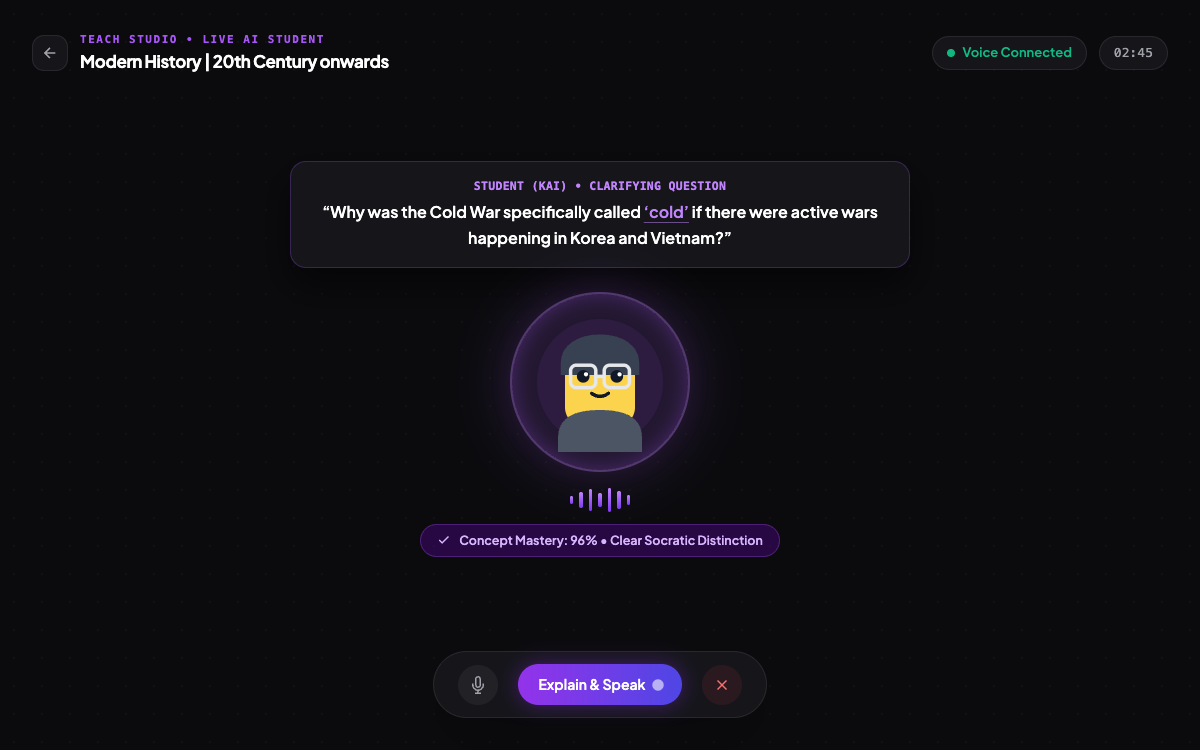
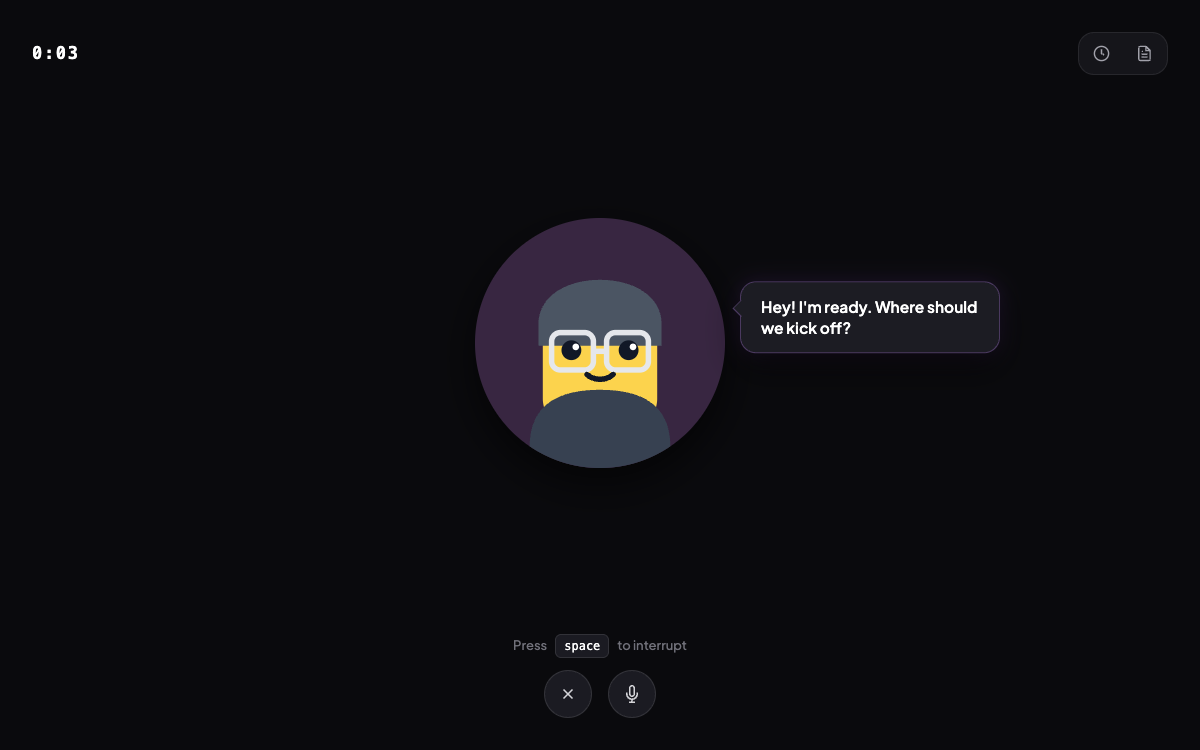
Update TeachRoom feature mockup to exact live UI

diff --git a/assets/mockups/teachroom.html b/assets/mockups/teachroom.html
@@ -6,107 +6,116 @@
 <link href="https://fonts.googleapis.com/css2?family=Plus+Jakarta+Sans:wght@400;500;600;700;800&family=JetBrains+Mono:wght@500;600&display=swap" rel="stylesheet">
 <script src="https://cdn.tailwindcss.com"></script>
 <style>
-body { margin:0; background:#0B0B0E; color:#EDEDED; font-family:'Plus Jakarta Sans',sans-serif; overflow:hidden; }
-.avatar-ring {
-  box-shadow: 0 0 50px rgba(168, 85, 247, 0.25), inset 0 0 20px rgba(168, 85, 247, 0.3);
+body { margin:0; background:#0A0A0D; color:#EDEDED; font-family:'Plus Jakarta Sans',sans-serif; overflow:hidden; }
+.avatar-circle {
+  width: 250px;
+  height: 250px;
+  border-radius: 50%;
+  background: #382641;
+  box-shadow: 0 16px 40px rgba(0,0,0,0.6);
+  position: relative;
+  overflow: hidden;
 }
-.glass {
-  background: rgba(22, 22, 28, 0.85);
-  backdrop-filter: blur(20px);
-  border: 1px solid rgba(255, 255, 255, 0.08);
+.speech-bubble {
+  position: absolute;
+  left: calc(50% + 140px);
+  top: 50%;
+  transform: translateY(-85%);
+  background: #1c1c23;
+  border: 1px solid rgba(192, 132, 252, 0.28);
+  border-radius: 16px;
+  padding: 14px 20px;
+  max-width: 260px;
+  box-shadow: 0 12px 32px rgba(0,0,0,0.6), 0 0 20px rgba(168,85,247,0.15);
 }
-.voice-wave span {
-  display: inline-block;
-  width: 3.5px;
-  background: linear-gradient(180deg, #c084fc, #7c3aed);
-  border-radius: 99px;
+.speech-bubble::before {
+  content: '';
+  position: absolute;
+  left: -6px;
+  top: 20px;
+  width: 12px;
+  height: 12px;
+  background: #1c1c23;
+  border-left: 1px solid rgba(192, 132, 252, 0.28);
+  border-bottom: 1px solid rgba(192, 132, 252, 0.28);
+  transform: rotate(45deg);
+}
+.icon-btn {
+  background: #15151A;
+  border: 1px solid rgba(255,255,255,0.08);
+  color: #D4D4D8;
 }
 </style>
 </head>
 <body class="w-[1200px] h-[750px] relative flex flex-col justify-between p-8 select-none">
-  <!-- Grid background -->
-  <div class="absolute inset-0 pointer-events-none opacity-20" style="background-image: radial-gradient(rgba(255,255,255,0.15) 1px, transparent 1px); background-size: 28px 28px;"></div>
-  
   <!-- Top Bar -->
-  <div class="relative z-10 flex items-center justify-between">
-    <div class="flex items-center gap-3">
-      <div class="w-9 h-9 rounded-xl glass flex items-center justify-center text-[#A1A1AA]">
-        <svg width="18" height="18" viewBox="0 0 24 24" fill="none" stroke="currentColor" stroke-width="2"><path d="M19 12H5M12 19l-7-7 7-7"/></svg>
-      </div>
-      <div>
-        <div class="text-[11px] font-bold tracking-[0.14em] text-[#a855f7] uppercase font-mono">Teach Studio • Live AI Student</div>
-        <div class="text-[17px] font-bold text-white tracking-tight">Modern History | 20th Century onwards</div>
-      </div>
+  <div class="flex items-center justify-between">
+    <div class="text-[17px] font-mono font-bold text-white tracking-widest">
+      0:03
     </div>
-    <div class="flex items-center gap-3">
-      <div class="glass px-3.5 py-1.5 rounded-full flex items-center gap-2 text-[13px] font-semibold text-[#10B981]">
-        <span class="w-2 h-2 rounded-full bg-[#10B981] animate-pulse"></span>
-        <span>Voice Connected</span>
-      </div>
-      <div class="glass px-3.5 py-1.5 rounded-full text-[13px] font-mono text-[#A1A1AA]">
-        02:45
-      </div>
+    
+    <div class="flex items-center gap-1.5 p-1 rounded-2xl icon-btn">
+      <button class="p-2 px-2.5 rounded-xl hover:bg-white/10 text-[#A1A1AA]">
+        <svg width="17" height="17" viewBox="0 0 24 24" fill="none" stroke="currentColor" stroke-width="2"><circle cx="12" cy="12" r="10"/><polyline points="12 6 12 12 16 14"/></svg>
+      </button>
+      <button class="p-2 px-2.5 rounded-xl hover:bg-white/10 text-[#A1A1AA]">
+        <svg width="17" height="17" viewBox="0 0 24 24" fill="none" stroke="currentColor" stroke-width="2"><path d="M14 2H6a2 2 0 0 0-2 2v16a2 2 0 0 0 2 2h12a2 2 0 0 0 2-2V8z"/><polyline points="14 2 14 8 20 8"/><line x1="16" y1="13" x2="8" y2="13"/><line x1="16" y1="17" x2="8" y2="17"/><polyline points="10 9 9 9 8 9"/></svg>
+      </button>
     </div>
   </div>
 
-  <!-- Center Stage: Avatar + Dialogue -->
-  <div class="relative z-10 flex flex-col items-center justify-center -mt-2">
-    <!-- Student Dialogue Bubble -->
-    <div class="glass max-w-[620px] rounded-2xl p-4 px-6 mb-6 text-center border-purple-500/25 shadow-[0_16px_36px_rgba(0,0,0,0.6)]">
-      <div class="text-[11.5px] font-bold text-[#c084fc] mb-1 tracking-wide uppercase font-mono">Student (Kai) • Clarifying Question</div>
-      <p class="text-[16px] text-white font-semibold leading-relaxed">
-        “Why was the Cold War specifically called <span class="text-[#c084fc] underline decoration-purple-400/50 underline-offset-4">‘cold’</span> if there were active wars happening in Korea and Vietnam?”
-      </p>
-    </div>
-
-    <!-- Student Avatar -->
-    <div class="relative w-[180px] h-[180px] rounded-full avatar-ring bg-[#221730] border-2 border-purple-400/30 flex items-center justify-center overflow-hidden">
-      <svg width="140" height="140" viewBox="0 0 100 100" fill="none">
-        <circle cx="50" cy="50" r="45" fill="#2d1b40"/>
-        <rect x="25" y="32" width="50" height="50" rx="14" fill="#fcd34d"/>
-        <path d="M22 36C22 24 34 16 50 16C66 16 78 24 78 36V45H22V36Z" fill="#374151"/>
-        <circle cx="38" cy="46" r="4.5" fill="#111827"/>
-        <circle cx="62" cy="46" r="4.5" fill="#111827"/>
-        <circle cx="40" cy="44.5" r="1.5" fill="#ffffff"/>
-        <circle cx="64" cy="44.5" r="1.5" fill="#ffffff"/>
-        <rect x="29" y="38" width="18" height="16" rx="4" fill="none" stroke="#e5e7eb" stroke-width="2.5"/>
-        <rect x="53" y="38" width="18" height="16" rx="4" fill="none" stroke="#e5e7eb" stroke-width="2.5"/>
-        <line x1="47" y1="46" x2="53" y2="46" stroke="#e5e7eb" stroke-width="2.5"/>
-        <path d="M44 58C47 61 53 61 56 58" stroke="#111827" stroke-width="2.5" stroke-linecap="round"/>
-        <path d="M20 90C20 74 34 70 50 70C66 70 80 74 80 90V100H20V90Z" fill="#4b5563"/>
+  <!-- Center Stage: Avatar + Bubble -->
+  <div class="relative flex items-center justify-center -mt-6">
+    <!-- Circular Avatar -->
+    <div class="avatar-circle flex items-center justify-center">
+      <svg width="220" height="220" viewBox="0 0 100 100" fill="none" class="translate-y-4">
+        <!-- Background inside -->
+        <circle cx="50" cy="50" r="50" fill="#382641"/>
+        <!-- Hair back / base -->
+        <rect x="24" y="30" width="52" height="52" rx="14" fill="#fcd34d"/>
+        <!-- Hair top -->
+        <path d="M22 34C22 22 34 14 50 14C66 14 78 22 78 34V44H22V34Z" fill="#4B5563"/>
+        <!-- Neck & Turtleneck -->
+        <rect x="36" y="58" width="28" height="20" fill="#fcd34d"/>
+        <path d="M18 90C18 70 32 64 50 64C68 64 82 70 82 90V100H18V90Z" fill="#374151"/>
+        <!-- Face Features -->
+        <circle cx="37" cy="46" r="4.5" fill="#111827"/>
+        <circle cx="63" cy="46" r="4.5" fill="#111827"/>
+        <circle cx="39" cy="44.5" r="1.5" fill="#ffffff"/>
+        <circle cx="65" cy="44.5" r="1.5" fill="#ffffff"/>
+        <!-- Glasses -->
+        <rect x="28" y="38" width="19" height="17" rx="4" fill="none" stroke="#e5e7eb" stroke-width="2.5"/>
+        <rect x="53" y="38" width="19" height="17" rx="4" fill="none" stroke="#e5e7eb" stroke-width="2.5"/>
+        <line x1="47" y1="46.5" x2="53" y2="46.5" stroke="#e5e7eb" stroke-width="2.5"/>
+        <!-- Smile -->
+        <path d="M44 57C47 60 53 60 56 57" stroke="#111827" stroke-width="2.5" stroke-linecap="round"/>
       </svg>
     </div>
 
-    <!-- Active Voice Waveform -->
-    <div class="flex items-center gap-1.5 h-6 mt-4 voice-wave">
-      <span style="height: 8px;"></span>
-      <span style="height: 16px;"></span>
-      <span style="height: 22px;"></span>
-      <span style="height: 14px;"></span>
-      <span style="height: 24px;"></span>
-      <span style="height: 18px;"></span>
-      <span style="height: 10px;"></span>
-    </div>
-
-    <!-- Live Feedback Pill -->
-    <div class="mt-3 flex items-center gap-2 px-4 py-1.5 rounded-full bg-purple-950/60 border border-purple-500/30 text-[12.5px] font-semibold text-[#d8b4fe]">
-      <svg width="14" height="14" viewBox="0 0 24 24" fill="none" stroke="currentColor" stroke-width="2.5"><path d="M20 6L9 17l-5-5"/></svg>
-      <span>Concept Mastery: 96% • Clear Socratic Distinction</span>
+    <!-- Speech Bubble (Exact to screenshot) -->
+    <div class="speech-bubble">
+      <p class="text-[15.5px] font-semibold text-white leading-snug m-0">
+        Hey! I'm ready. Where should we kick off?
+      </p>
     </div>
   </div>
 
-  <!-- Bottom Dock Controls -->
-  <div class="relative z-10 flex items-center justify-center gap-4">
-    <div class="glass px-6 py-3 rounded-full flex items-center gap-5 shadow-2xl">
-      <button class="w-10 h-10 rounded-full bg-white/5 hover:bg-white/10 flex items-center justify-center text-[#A1A1AA]">
-        <svg width="18" height="18" viewBox="0 0 24 24" fill="none" stroke="currentColor" stroke-width="2"><path d="M12 1a3 3 0 0 0-3 3v8a3 3 0 0 0 6 0V4a3 3 0 0 0-3-3zM19 10v2a7 7 0 0 1-14 0v-2M12 19v4M8 23h8"/></svg>
+  <!-- Bottom Dock Controls (Exact to screenshot) -->
+  <div class="flex flex-col items-center gap-3">
+    <!-- Space hint -->
+    <div class="flex items-center gap-2 text-[13px] text-[#71717A] font-medium">
+      <span>Press</span>
+      <span class="px-2 py-0.5 rounded-md bg-[#1B1B22] border border-white/10 text-white font-mono text-[12px]">space</span>
+      <span>to interrupt</span>
+    </div>
+
+    <!-- Buttons -->
+    <div class="flex items-center gap-4">
+      <button class="w-12 h-12 rounded-full bg-[#1B1B22] border border-white/10 flex items-center justify-center text-[#D4D4D8] hover:bg-white/10 transition-all">
+        <svg width="18" height="18" viewBox="0 0 24 24" fill="none" stroke="currentColor" stroke-width="2.2"><line x1="18" y1="6" x2="6" y2="18"/><line x1="6" y1="6" x2="18" y2="18"/></svg>
       </button>
-      <button class="px-5 py-2.5 rounded-full bg-gradient-to-r from-purple-600 to-indigo-600 font-semibold text-[14px] text-white shadow-[0_0_20px_rgba(147,51,234,0.4)] flex items-center gap-2">
-        <span>Explain & Speak</span>
-        <span class="w-2 h-2 rounded-full bg-white animate-ping"></span>
-      </button>
-      <button class="w-10 h-10 rounded-full bg-red-500/10 text-red-400 hover:bg-red-500/20 flex items-center justify-center">
-        <svg width="18" height="18" viewBox="0 0 24 24" fill="none" stroke="currentColor" stroke-width="2"><path d="M18 6L6 18M6 6l12 12"/></svg>
+      <button class="w-12 h-12 rounded-full bg-[#1B1B22] border border-white/10 flex items-center justify-center text-[#D4D4D8] hover:bg-white/10 transition-all">
+        <svg width="18" height="18" viewBox="0 0 24 24" fill="none" stroke="currentColor" stroke-width="2.2"><path d="M12 1a3 3 0 0 0-3 3v8a3 3 0 0 0 6 0V4a3 3 0 0 0-3-3zM19 10v2a7 7 0 0 1-14 0v-2M12 19v4M8 23h8"/></svg>
       </button>
     </div>
   </div>
